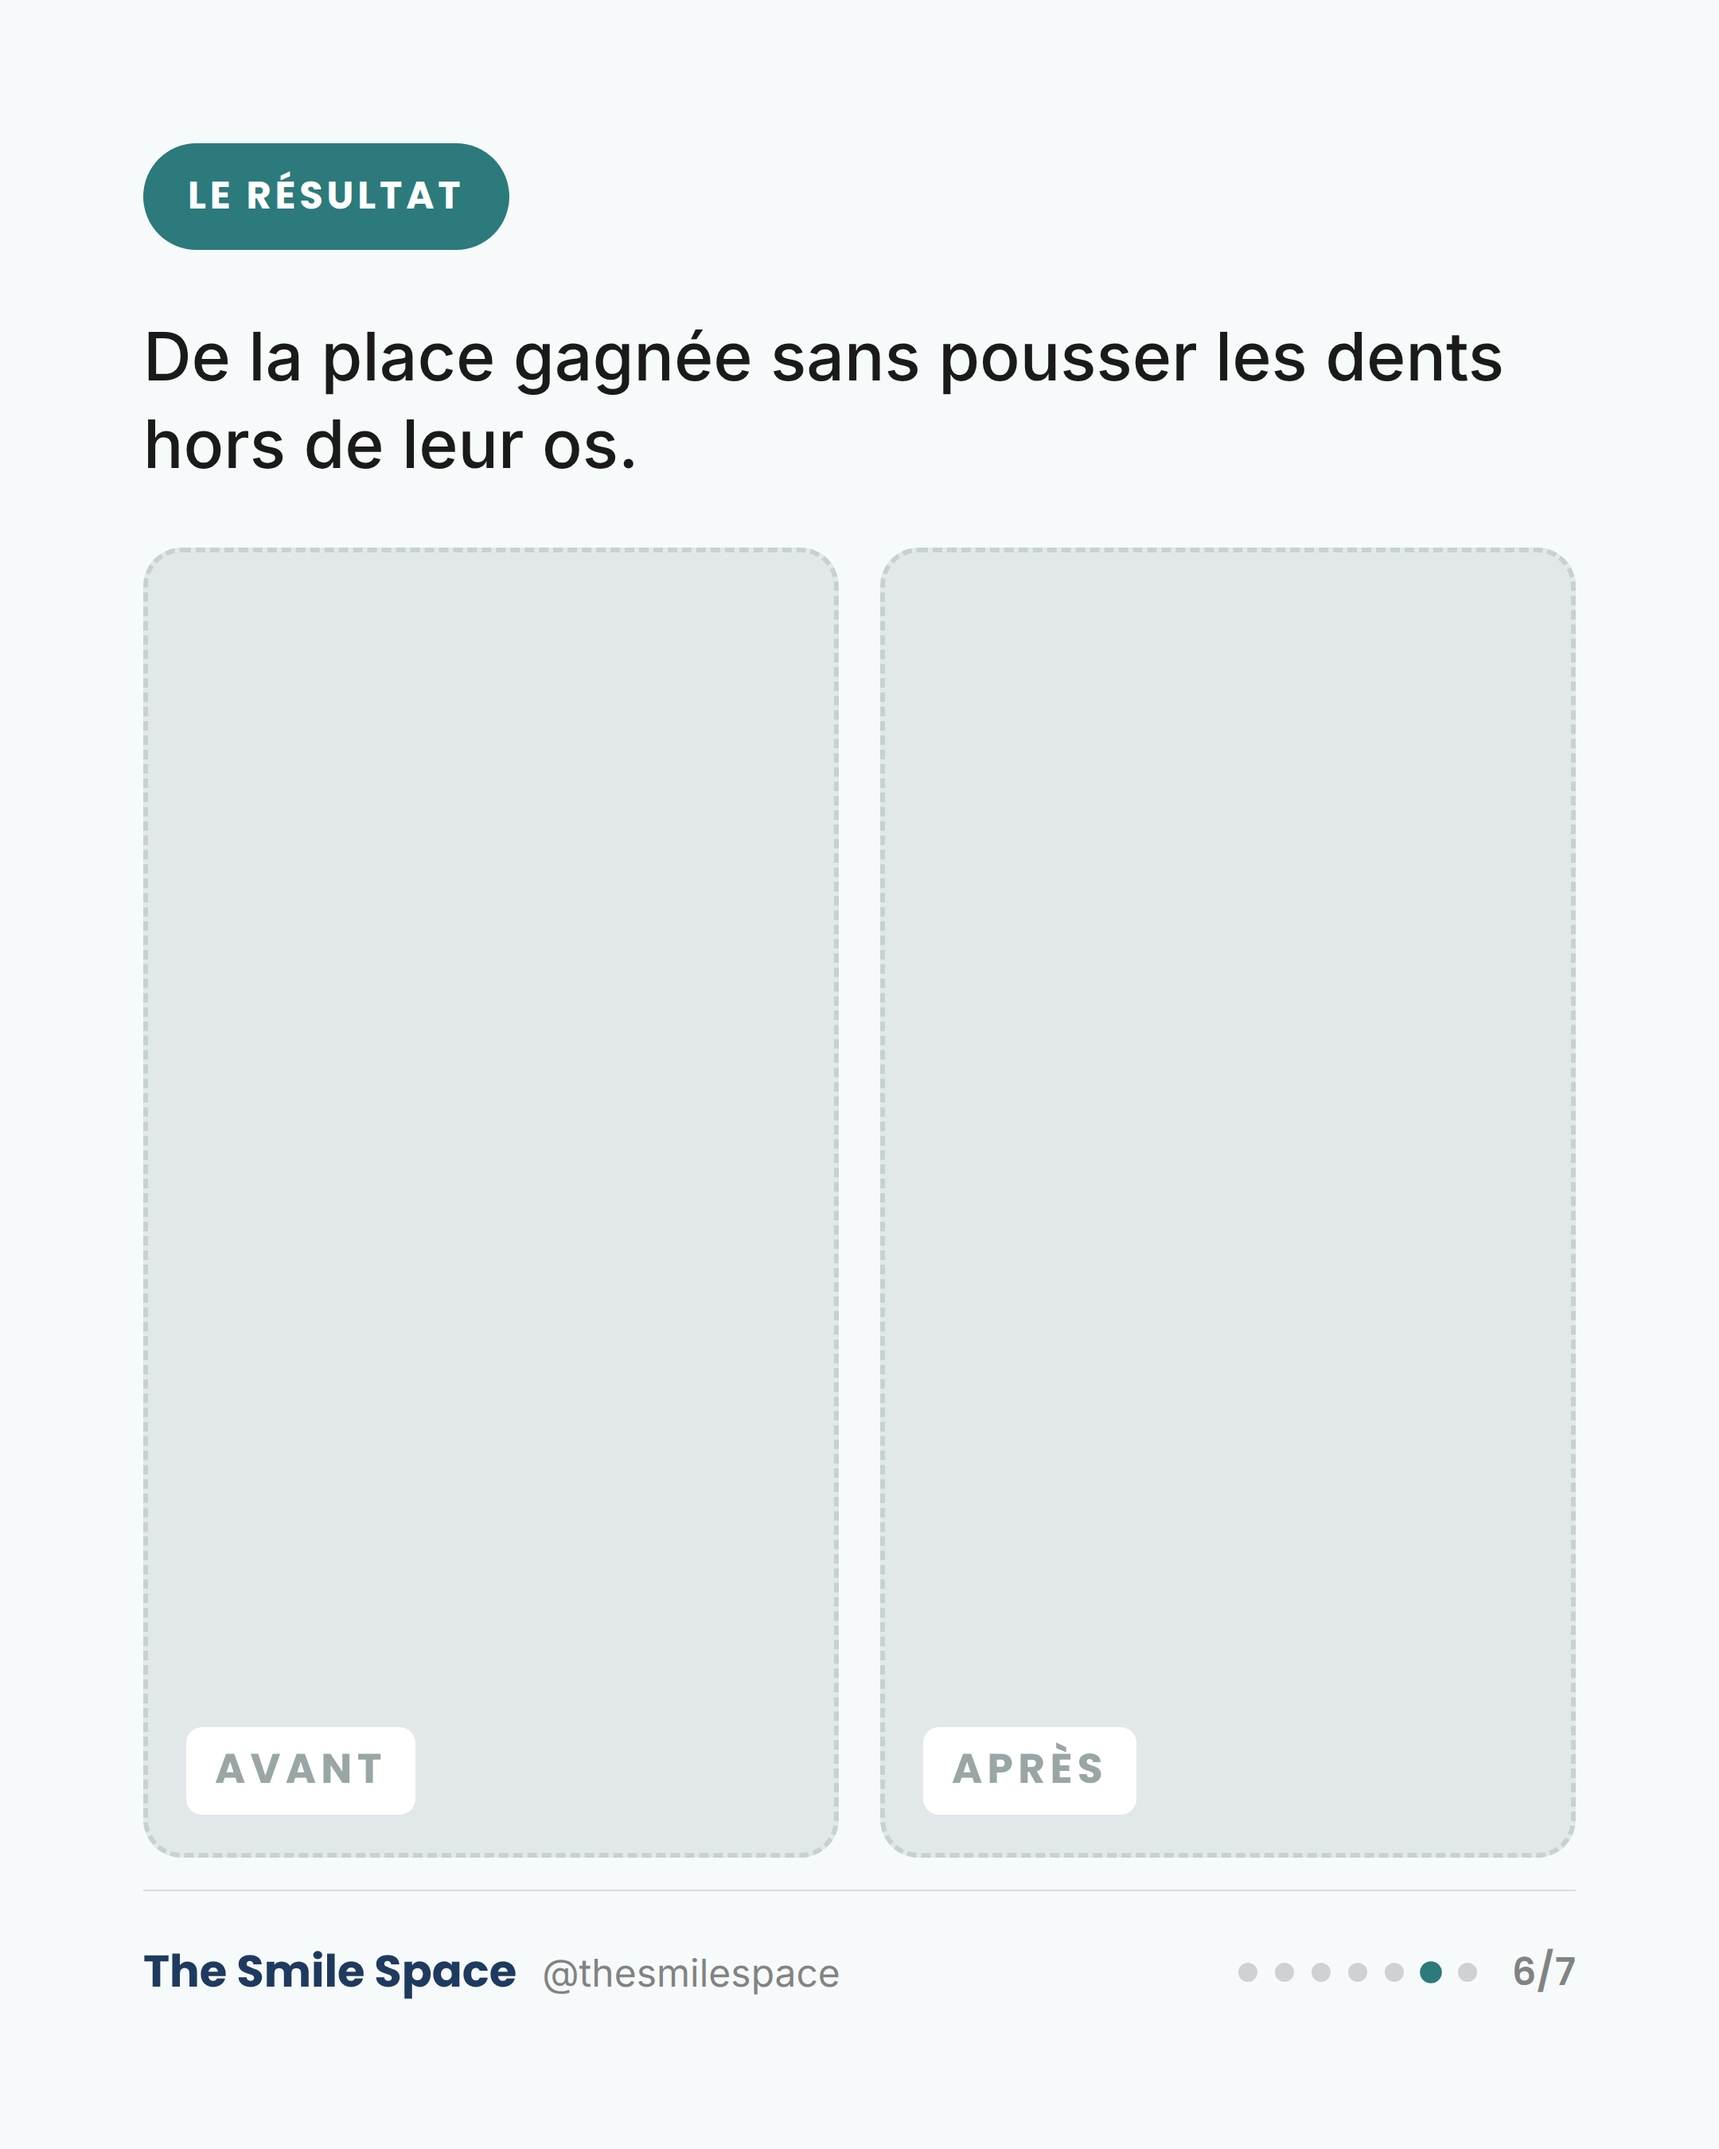
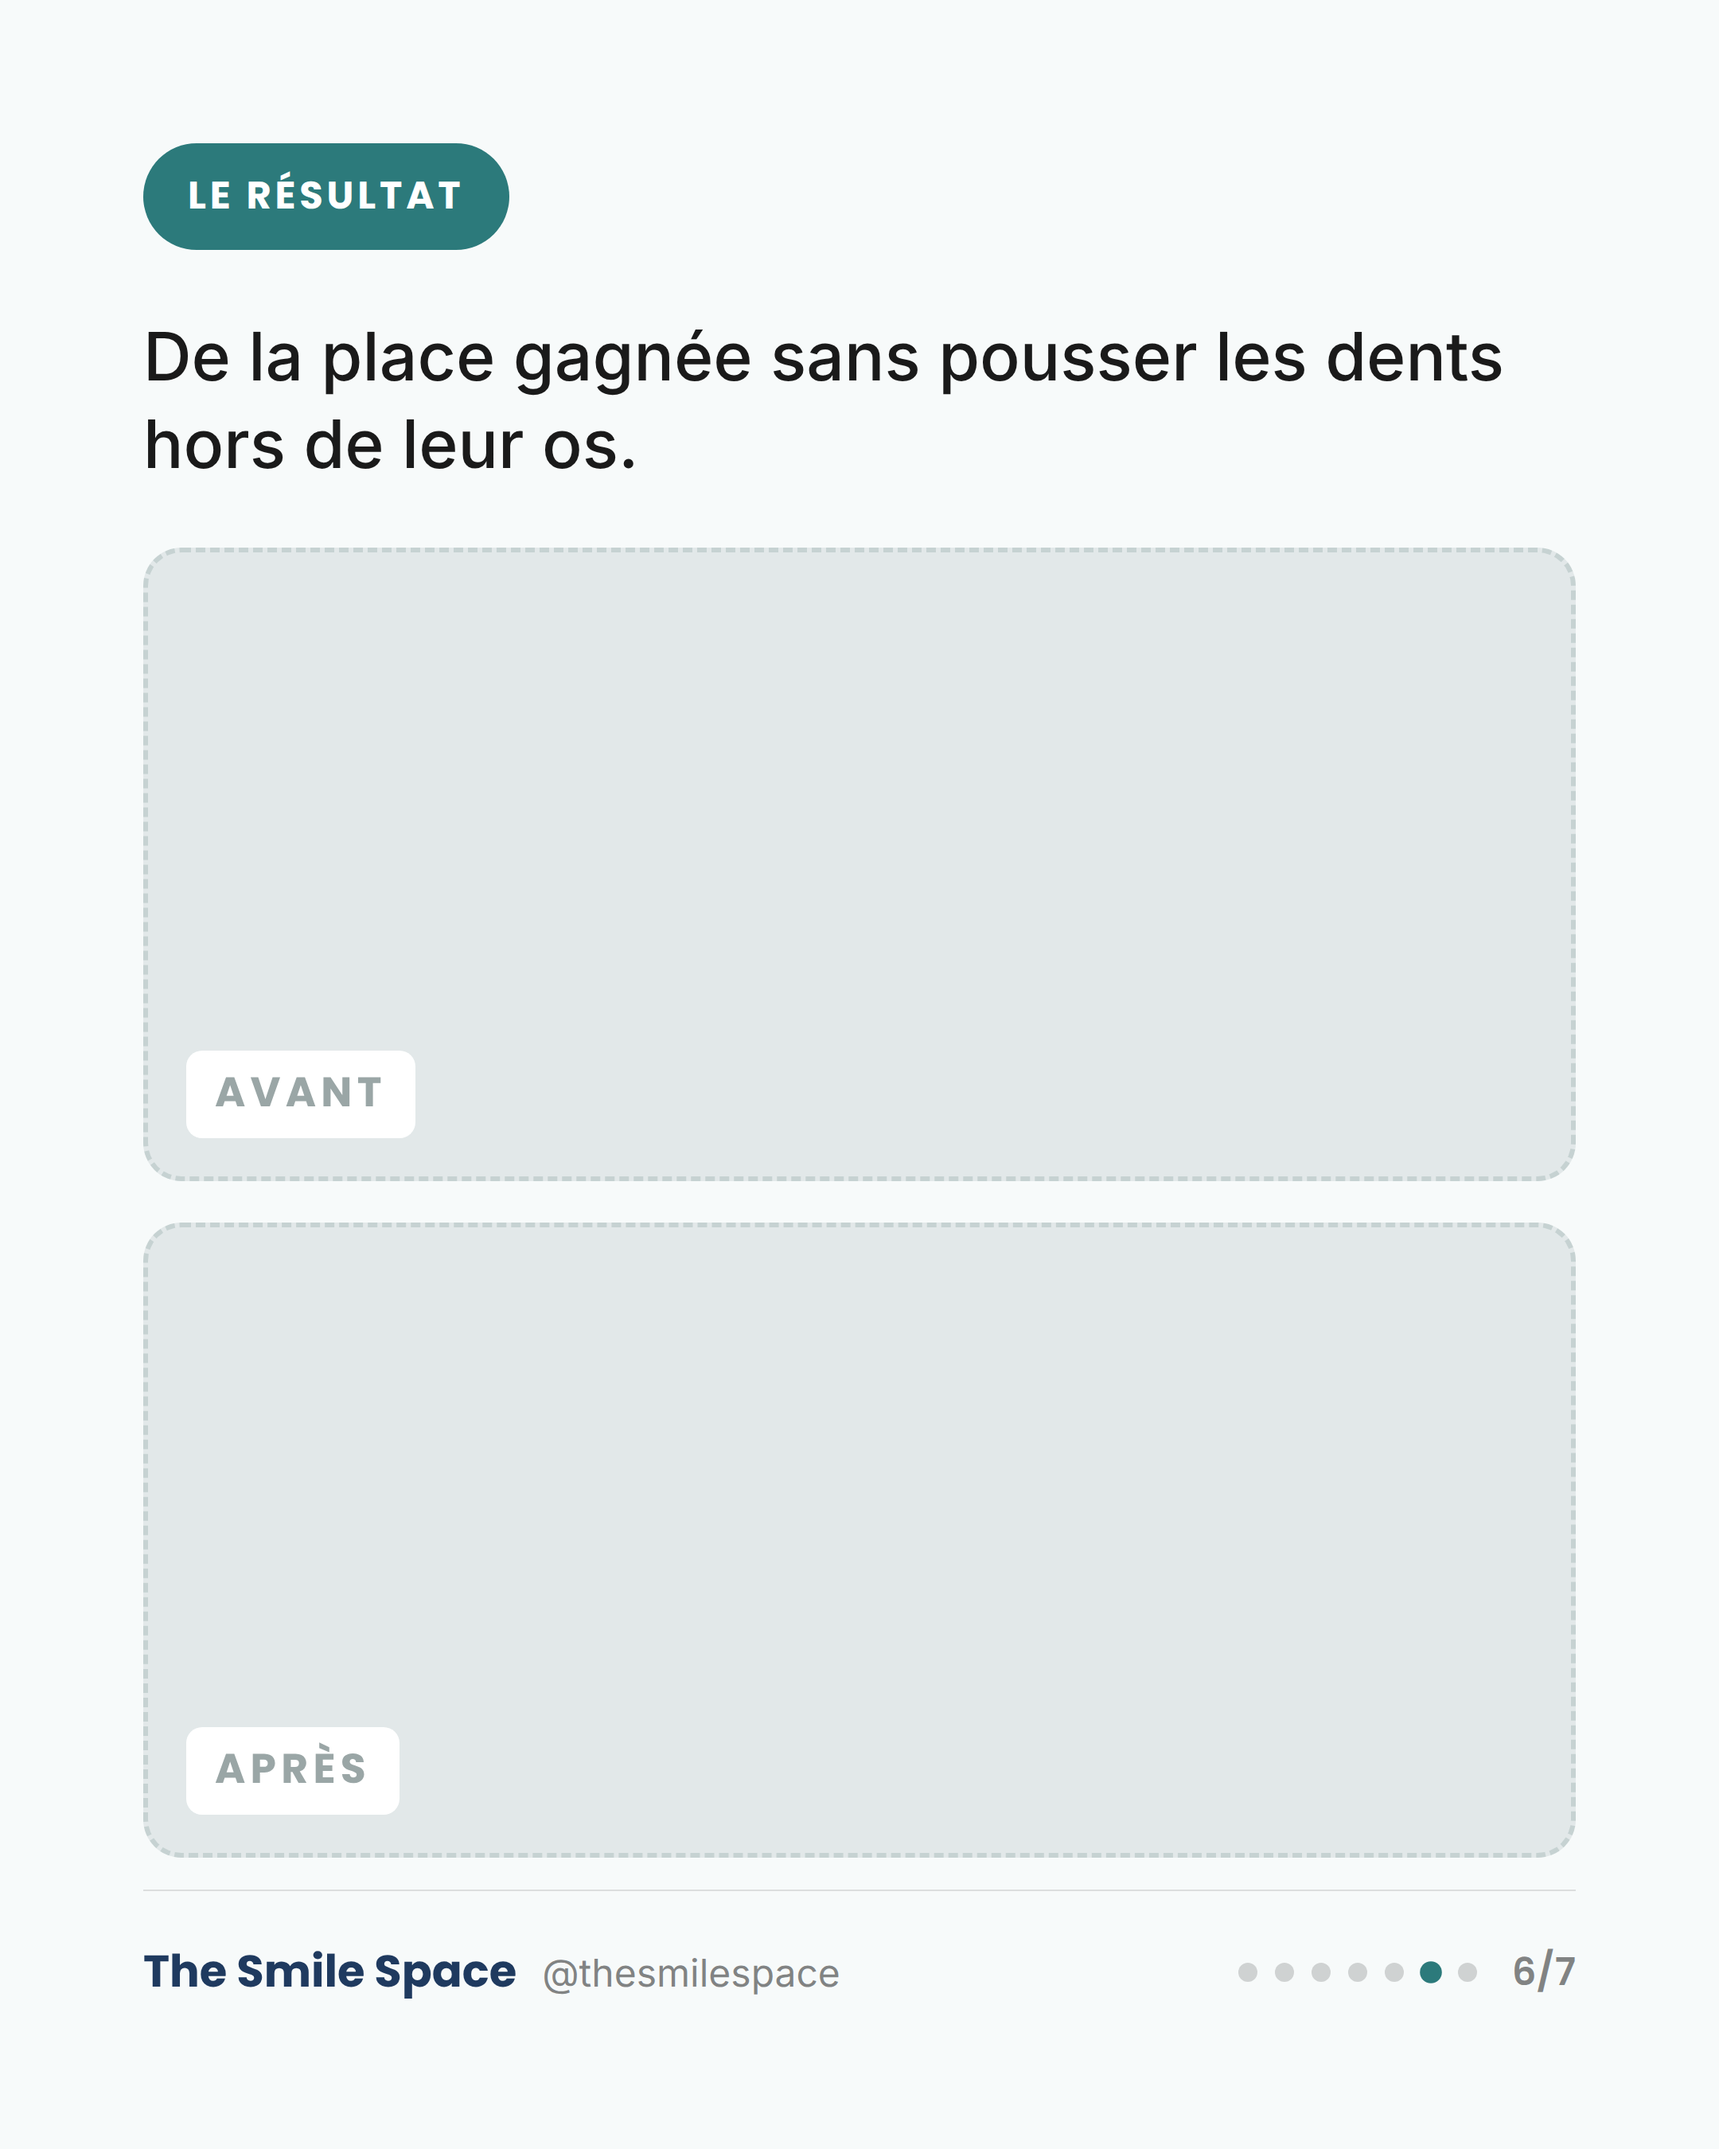
Slide resultat : cadres AVANT/APRES horizontaux empilés
Les deux placeholders passent d'une disposition côte à côte (verticale)
à une disposition empilée (horizontale/paysage).

Claude-Session: https://claude.ai/code/session_014brP78CXMSfVZFDbExkY7E

diff --git a/template.js b/template.js
@@ -233,8 +233,8 @@ body{font-family:var(--f-body);-webkit-font-smoothing:antialiased;text-rendering
 }
 .photozone.clinique{background:#E9EFEF;border-color:#BFD3D3;}
 
-/* Avant / Après */
-.beforeafter{flex:1;min-height:0;display:flex;gap:26px;}
+/* Avant / Après (cadres horizontaux empilés) */
+.beforeafter{flex:1;min-height:0;display:flex;flex-direction:column;gap:26px;}
 .ba-frame{
   flex:1;border-radius:24px;background:var(--ph);border:3px dashed #C6D2D2;
   display:flex;align-items:flex-end;justify-content:flex-start;padding:24px;
